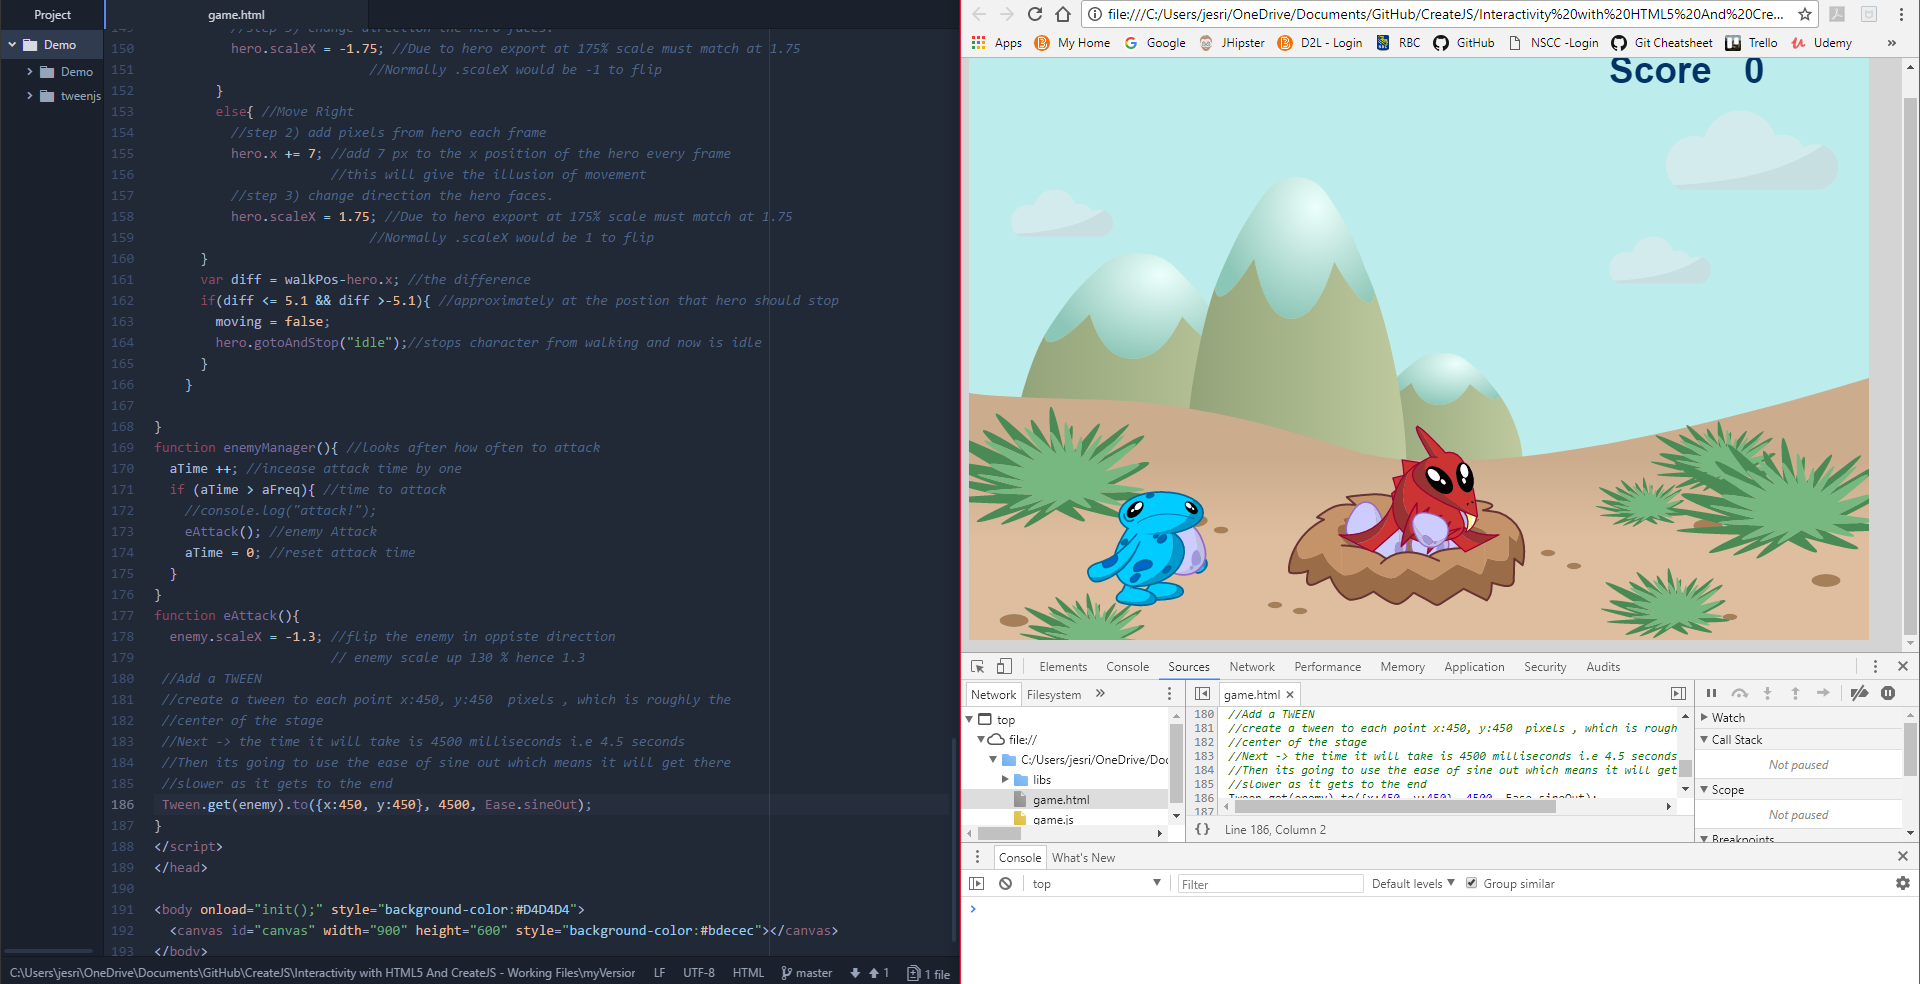
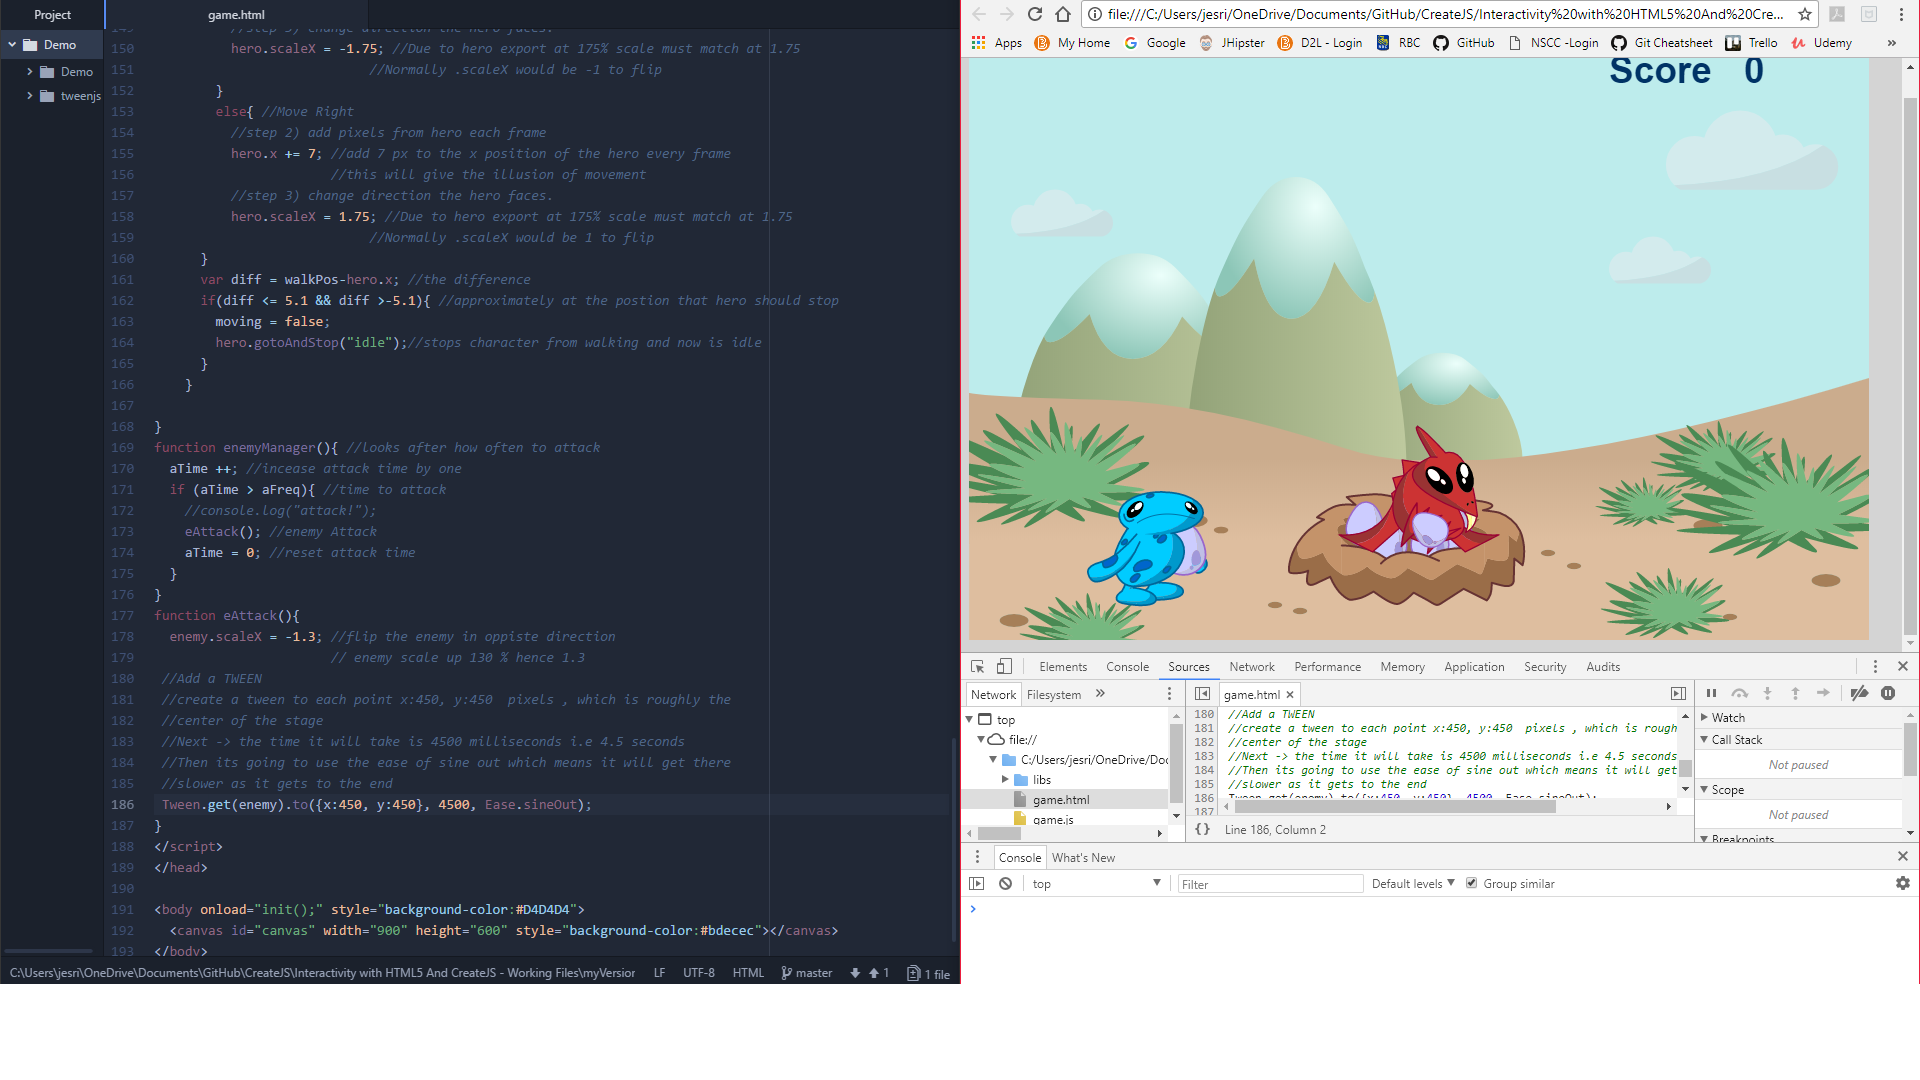
enemy now comes and goes from nest

diff --git a/Interactivity with HTML5 And CreateJS - Working Files/myVersion/game.html b/Interactivity with HTML5 And CreateJS - Working Files/myVersion/game.html
@@ -29,6 +29,8 @@ var enemy;//this is the var for the traidactul -> bird.
 var aTime = 0;//attack time is a count that will count u how often to attack
 var aFreq;//how often to attack
 var attackSpeed;//speed of the attack itself
+var ePosX = [-95, -95, 100, 900, 1100];
+var ePosY = [90, 180, -75, -75, 0];
 //============================================================================\\
 function init() {
 	canvas = document.getElementById("canvas");
@@ -102,6 +104,9 @@ function setTitle(){
 	//======================== E N E M Y =======================================\\
 	aFreq = 350; //fequency set every 350 frames
 	attackSpeed = 4000;//attack speed will take 4 seconds.
+	var p = Math.round(Math.random()*4) // random start location
+	enemy.x = ePosX[p];
+	enemy.y = ePosY[p];
 	//==========================================================================\\
 }
 //enventObj lets CreateJS know that there is a event taking place
@@ -112,6 +117,9 @@ function startClick(eventObj){
 	//make button no longer clickable
 	//set inPlay to true since game is now active
 	inPlay = true;
+
+	//set enemy to attack straight away
+	eAttack();
 }
 
 //Ground Click function
@@ -183,7 +191,16 @@ function eAttack(){
  //Next -> the time it will take is 4500 milliseconds i.e 4.5 seconds
  //Then its going to use the ease of sine out which means it will get there
  //slower as it gets to the end
- Tween.get(enemy).to({x:450, y:450}, 4500, Ease.sineOut);
+ Tween.get(enemy).to({x:450, y:450}, 4500, Ease.sineOut).call(eEscape);
+ 																							//eEscape will move enemy back out
+}
+function eEscape(){ // escaping after getting an egg.
+	enemy.scaleX = 1.3; // flip the enemy
+	var p = Math.round(Math.random()*4); //generate random number between 0-3
+	//that number is going to choose the enemys random escape
+	//ePosX ePosY will hold random escape postions for enemey
+  Tween.get(enemy).to({x:ePosX[p], y:ePosY[p]}, attackSpeed, Ease.sineOut).call(eEscape);
+
 }
 </script>
 </head>
